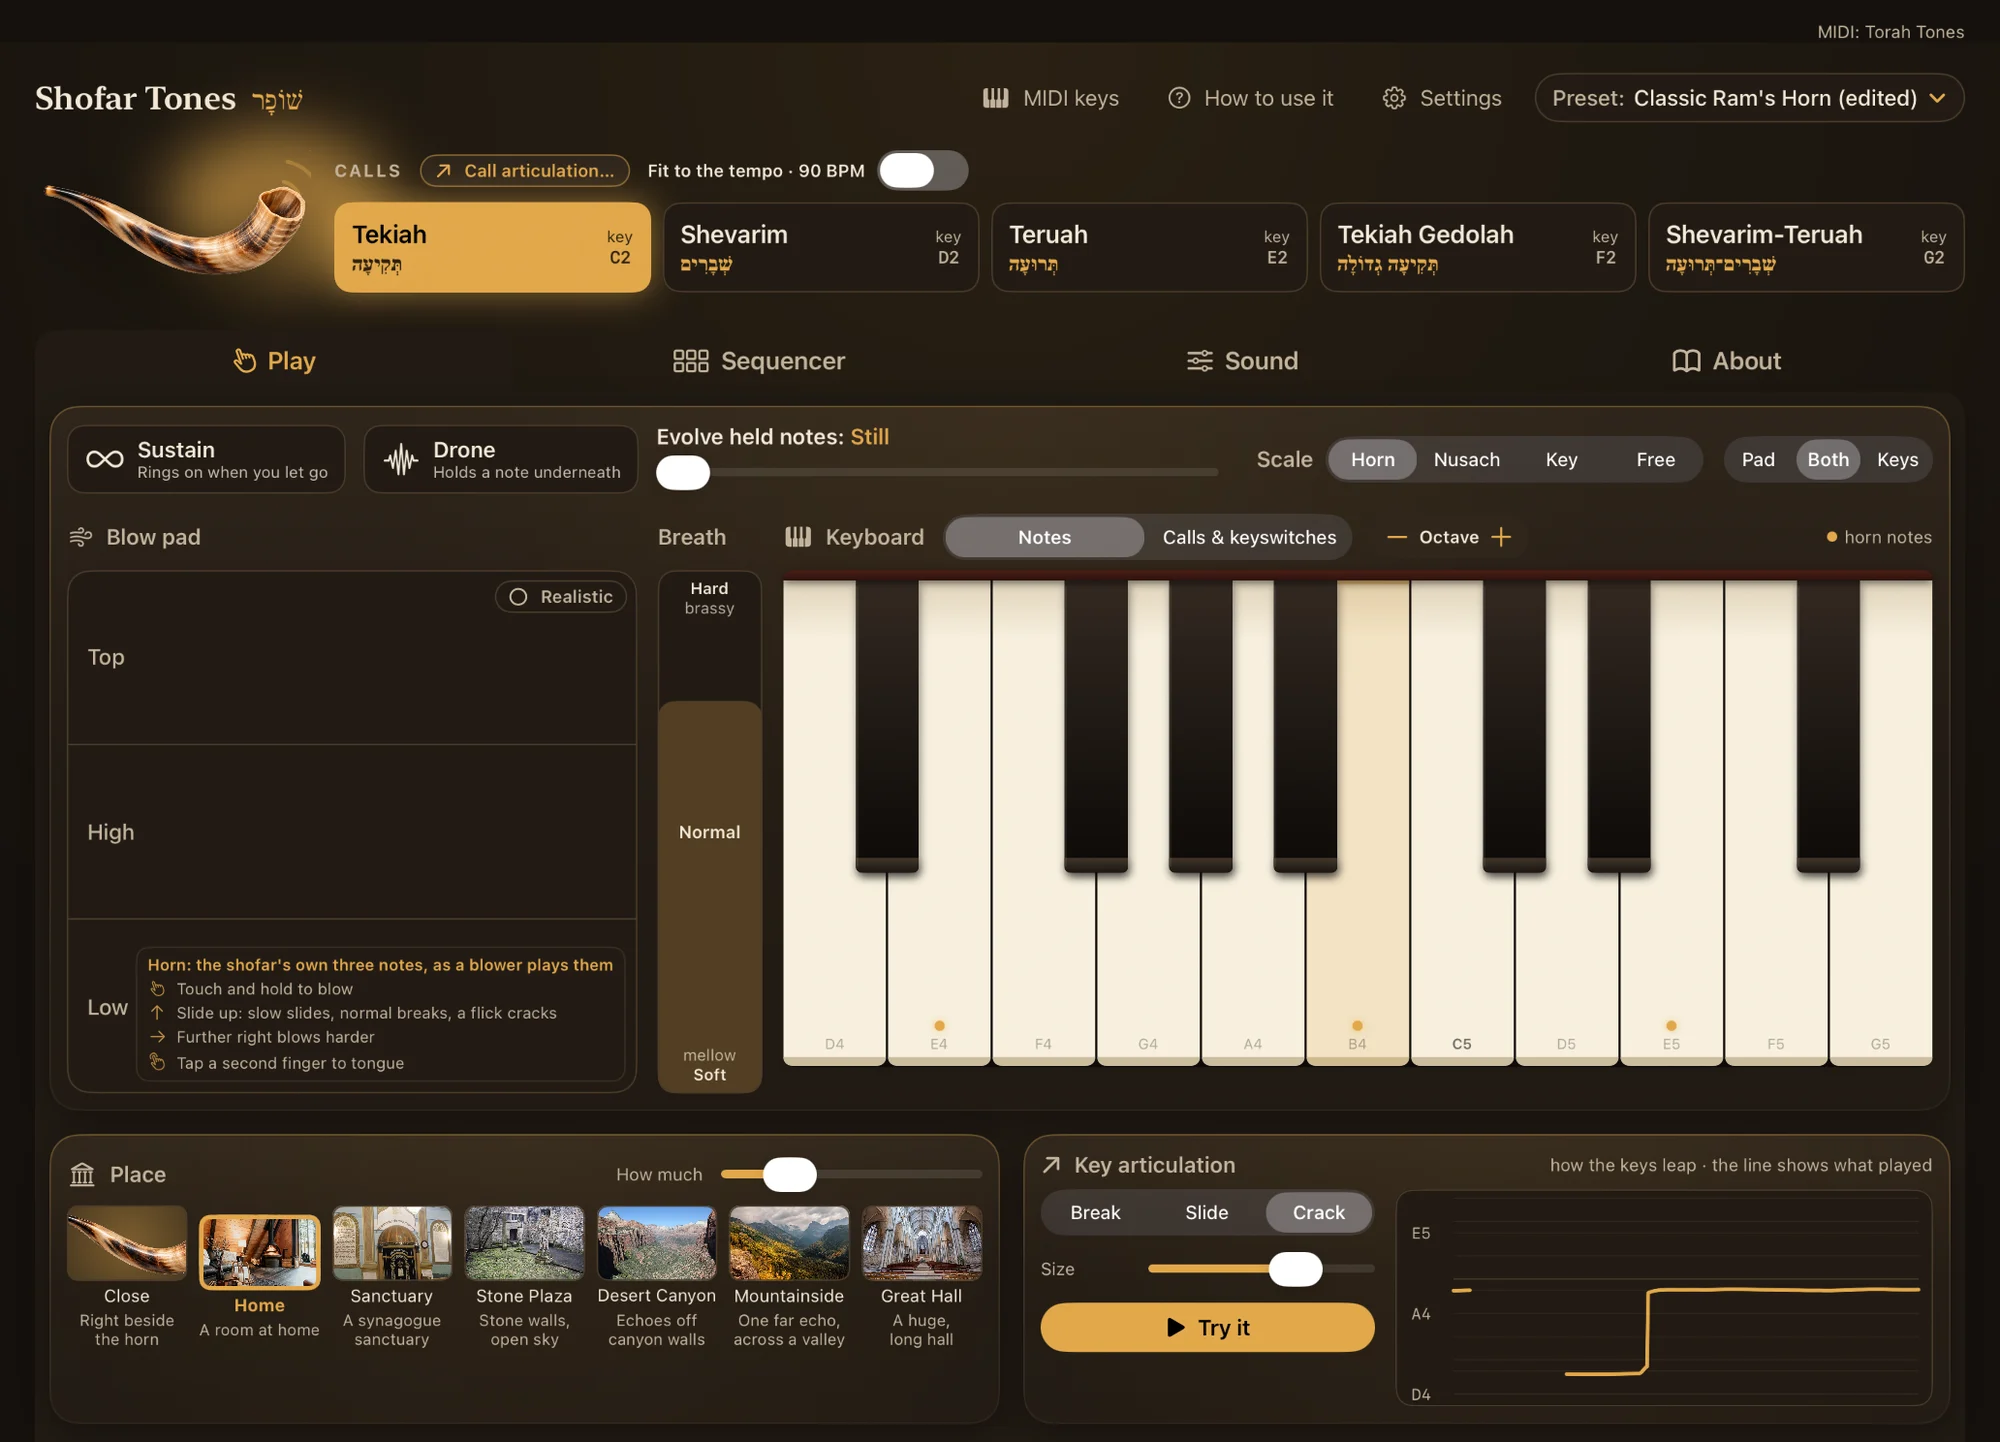
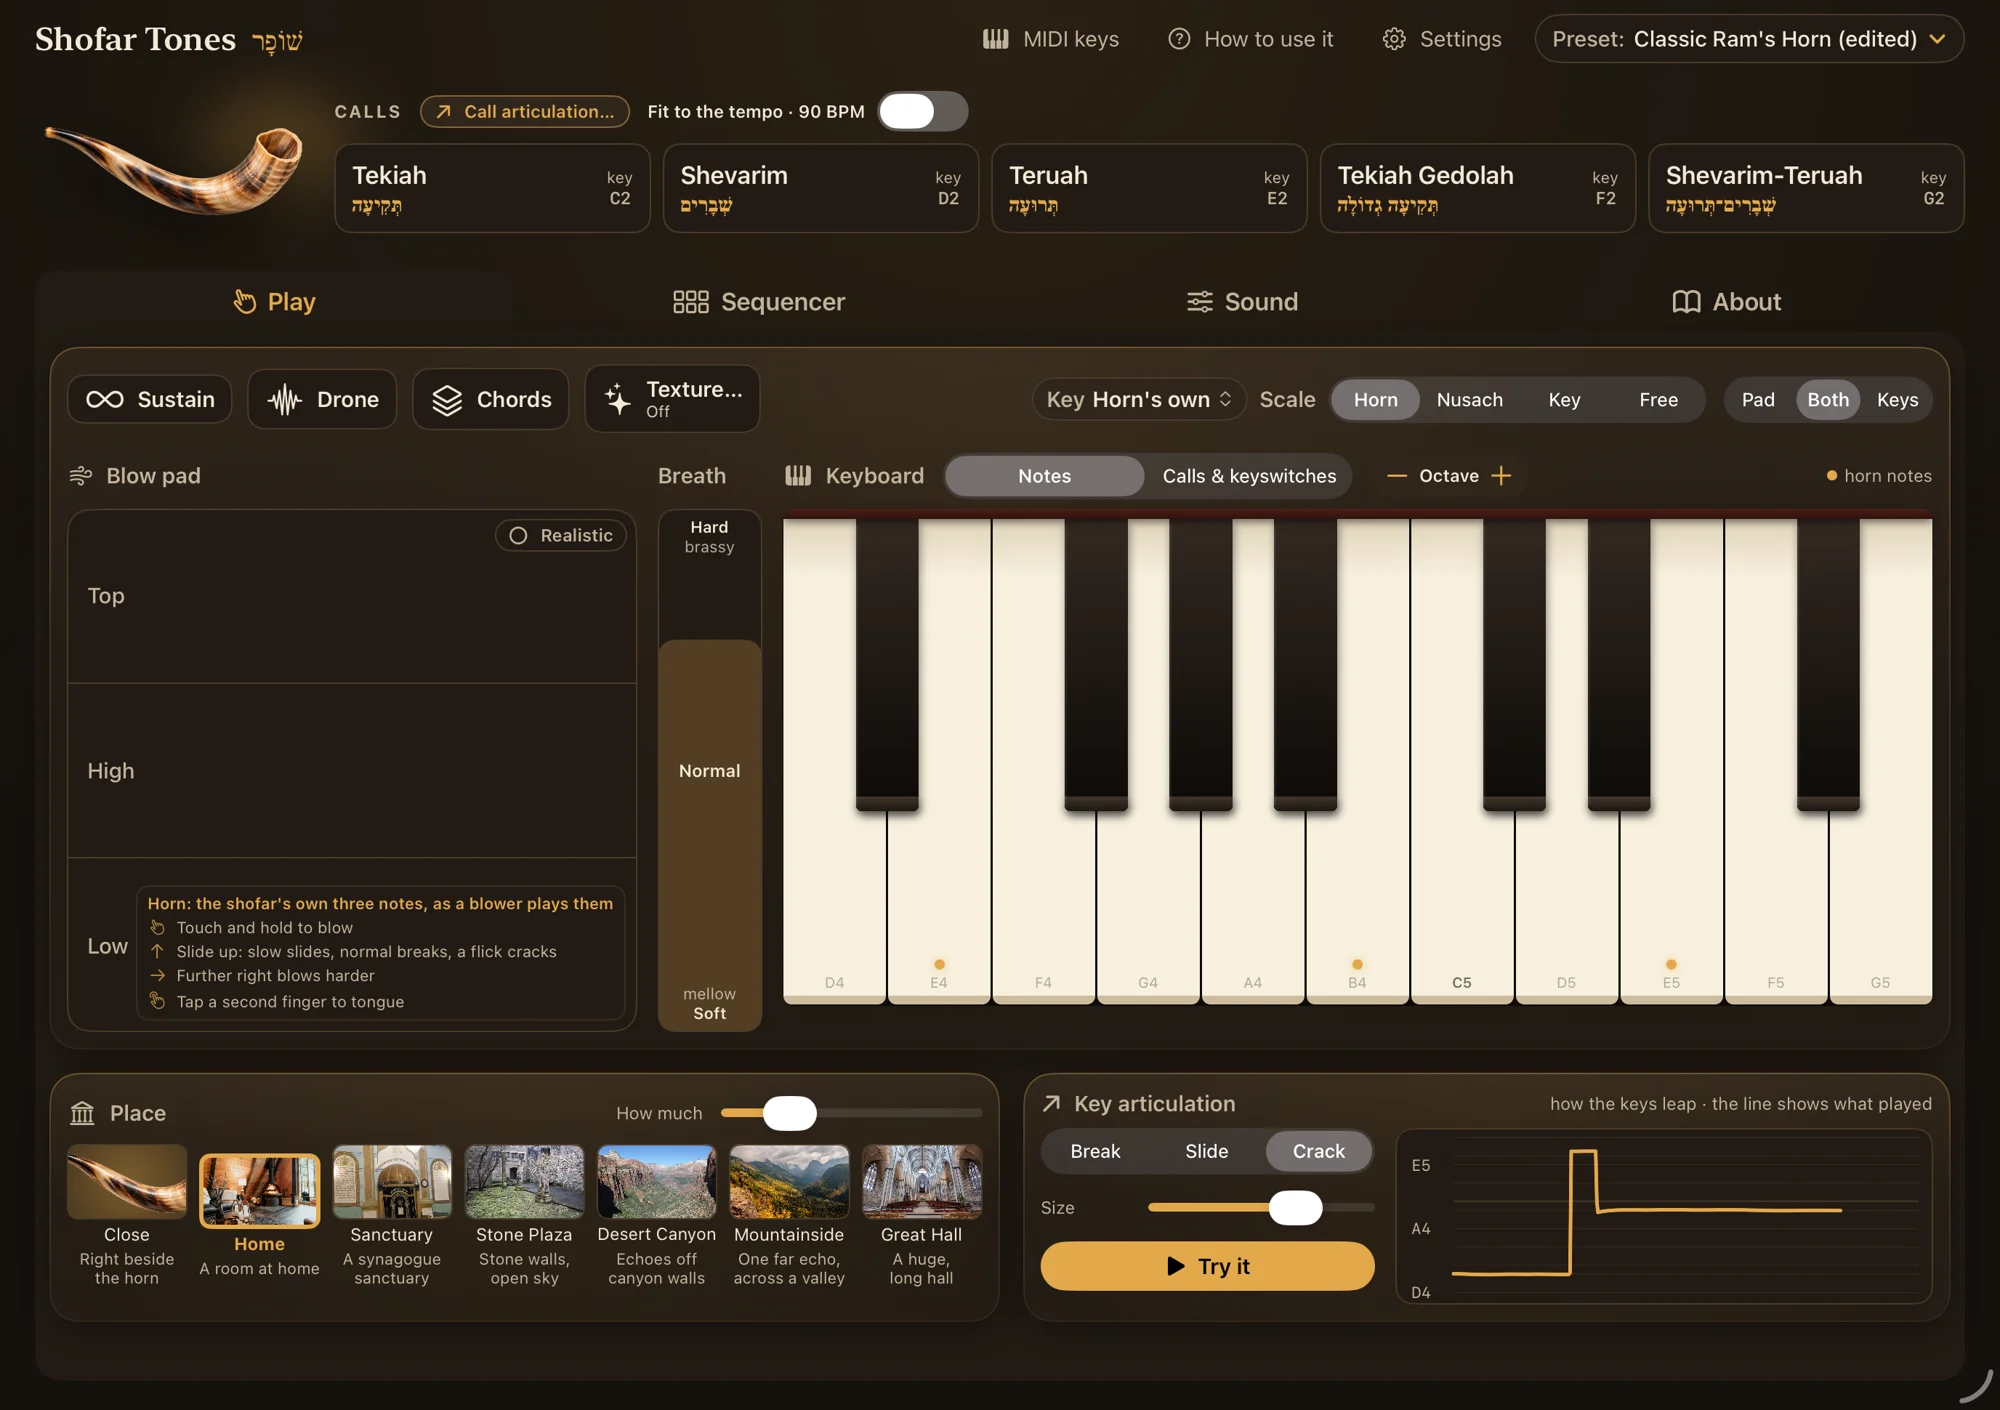
Key, Chords and Texture

diff --git a/index.html b/index.html
@@ -35,7 +35,7 @@
   </div>
   <div class="hero-horn"><img src="img/horn.webp?v=1" alt="A ram's horn shofar" width="1400" height="489"></div>
 </section>
-<div class="stage s-amber hero-shot"><img src="img/hero-ipad.webp?v=3" alt="Shofar Tones on iPad: the five calls with Tekiah sounding, the blow pad, breath fader and keyboard, seven places, and Key articulation showing a crack" width="2000" height="1442"></div>
+<div class="stage s-amber hero-shot"><img src="img/hero-ipad.webp?v=4" alt="Shofar Tones on iPad: the five calls, Sustain, Drone, Chords and Texture, Key and Scale, the blow pad, breath fader and keyboard, seven places, and Key articulation showing a crack" width="2000" height="1410"></div>
 
 <section class="intro" id="hear">
   <div class="lead">
@@ -59,7 +59,7 @@
 </section>
 
 <section class="feature flip k-coral">
-  <div class="text"><p class="label">Play it by hand</p><h2>Blow it yourself.</h2><p>The blow pad is your lips and breath. Touch and hold to blow, slide up to leap, move right to blow harder. How fast you move picks the leap: slowly slides, normally breaks, a flick cracks. Tap a second finger to tongue the note. Or play the keys: press near the front edge to blow harder, slide along a key for vibrato that deepens the further you go, slide sideways to glide.</p><ul><li>A Breath fader for your other hand: harder is louder and brassier</li><li>Realistic: very soft breath sputters, very hard breath jumps up a note, as a real horn does</li><li>Sustain, Drone underneath, and Evolve, so a long note breathes and changes colour</li><li>Pad, Both or Keys gives either one the whole width</li></ul></div>
+  <div class="text"><p class="label">Play it by hand</p><h2>Blow it yourself.</h2><p>The blow pad is your lips and breath. Touch and hold to blow, slide up to leap, move right to blow harder. How fast you move picks the leap: slowly slides, normally breaks, a flick cracks. Tap a second finger to tongue the note. Or play the keys: press near the front edge to blow harder, slide along a key for vibrato that deepens the further you go, slide sideways to glide.</p><ul><li>A Breath fader for your other hand: harder is louder and brassier</li><li>Realistic: very soft breath sputters, very hard breath jumps up a note, as a real horn does</li><li>Sustain, Drone underneath, and Evolve, so a long note breathes and changes colour</li><li>Chords: hold several keys and each becomes its own horn, a touch apart, like players side by side</li><li>Pad, Both or Keys gives either one the whole width</li></ul></div>
   <div class="stage s-coral"><img src="img/keys.webp?v=3" alt="The blow pad with its instructions, the Breath fader from soft and mellow to hard and brassy, and the keyboard with the horn's own notes marked" loading="lazy" width="1990" height="730"></div>
 </section>
 
@@ -69,11 +69,16 @@
 </section>
 
 <section class="feature flip k-plum">
-  <div class="text"><p class="label">Scales</p><h2>The horn's notes, or a prayer mode.</h2><p>Scale sets what the pad and the keys play. Horn keeps the shofar's own three notes. Nusach plays Ahavah Rabbah, Magen Avot or Adonai Malach on any home note; Key plays major or minor. In a scale, the keyboard becomes one named key per note of it, so every key you touch belongs. Free plays any pitch at all.</p><ul><li>The pad's bands become the scale's notes, with bends at each edge</li><li>Prefer a piano? One tap shows the whole keyboard, the scale in gold</li><li>Snap a MIDI keyboard to the scale too, if you like</li></ul></div>
+  <div class="text"><p class="label">Scales</p><h2>In your key, or a prayer mode.</h2><p>Scale sets what the pad and the keys play. Horn keeps the shofar's own three notes. Nusach plays Ahavah Rabbah, Magen Avot or Adonai Malach on any home note; Key plays major or minor. In a scale, the keyboard becomes one named key per note of it, so every key you touch belongs. Free plays any pitch at all. And Key puts the whole horn in your song's key: its notes, every call and every leap, exactly in tune.</p><ul><li>The pad's bands become the scale's notes, with bends at each edge</li><li>Prefer a piano? One tap shows the whole keyboard, the scale in gold</li><li>Snap a MIDI keyboard to the scale too, if you like</li></ul></div>
   <div class="stage s-plum"><img src="img/scale.webp?v=3" alt="Scale set to Nusach, Ahavah Rabbah on E, the keyboard across the whole width as scale keys from E4 to E6, each named, the home notes ringed" loading="lazy" width="1990" height="730"></div>
 </section>
 
-<section class="feature k-sage">
+<section class="feature k-coral">
+  <div class="text"><p class="label">Texture</p><h2>Stretch it, reverse it, go deep.</h2><p>The horn as raw material for film, ambient and sound design. Stretch any call up to ten times slower into a long, slow swell. Play every breath backwards, so it rises out of silence and ends on its own attack. Take it an octave or two down into a much bigger horn, with a darker body, not a sped-down tape.</p><ul><li>Drone freezes whatever is sounding into an endless pad</li><li>Evolve lets a held note breathe, brighten and drift</li><li>A big Place makes all of it larger</li></ul></div>
+  <div class="stage s-coral"><img src="img/texture.webp?v=1" alt="The Texture panel: stretch the calls 4 times slower, Backwards on, Depth an octave down, and Evolve" loading="lazy" width="1130" height="1025"></div>
+</section>
+
+<section class="feature flip k-sage">
   <div class="text"><p class="label">Sequencer</p><h2>A pattern that stays on the beat.</h2><p>Lay calls and notes on a grid of 8 to 64 steps. Every step can have its own leap, a roll of quick blasts, a chance of playing, its own lips and its own breath. In a music app the pattern follows the song, so it stays locked when the song loops or jumps.</p><ul><li>Four patterns, A to D, with Copy to make a variation</li><li>Chain them in any order, and add swing</li><li>Save a pattern as a MIDI file for any DAW</li><li>In a music app it sends its notes out as MIDI to any instrument</li></ul></div>
   <div class="stage s-sage"><img src="img/sequencer.webp?v=3" alt="The sequencer: patterns A to D, swing, Save as MIDI File, a two-bar pattern, and the first step open for editing" loading="lazy" width="1990" height="1010"></div>
 </section>
